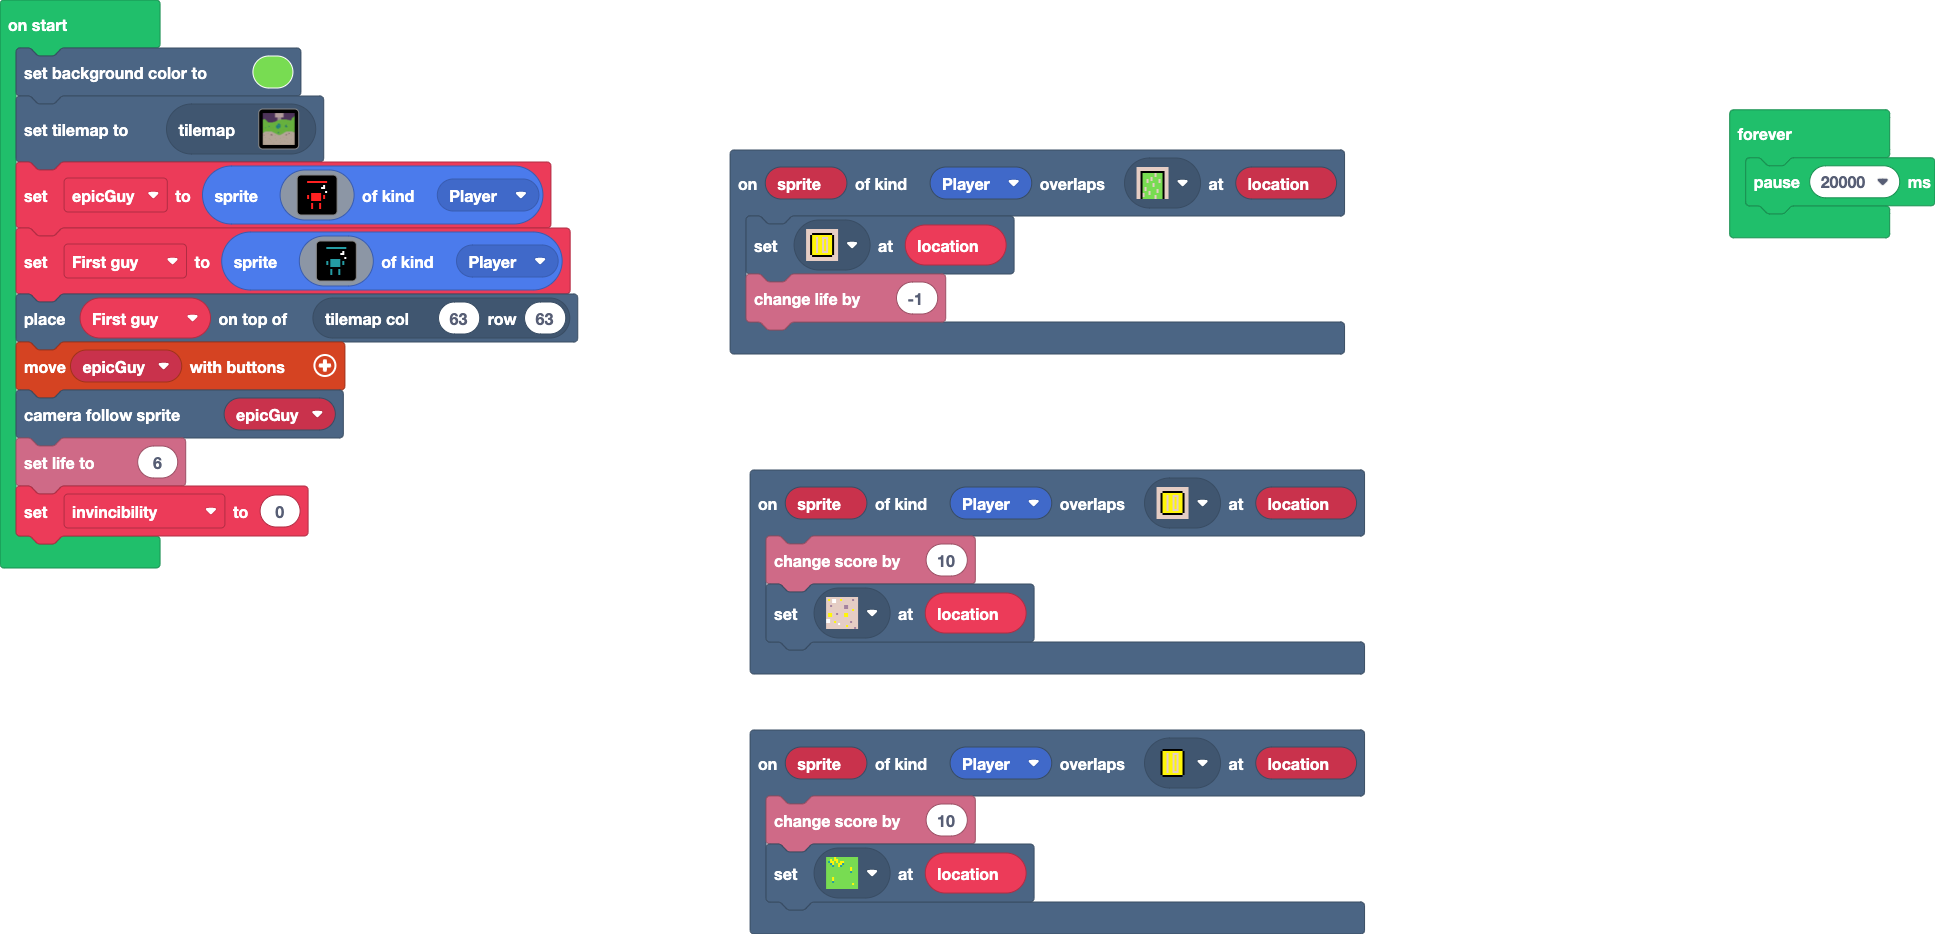
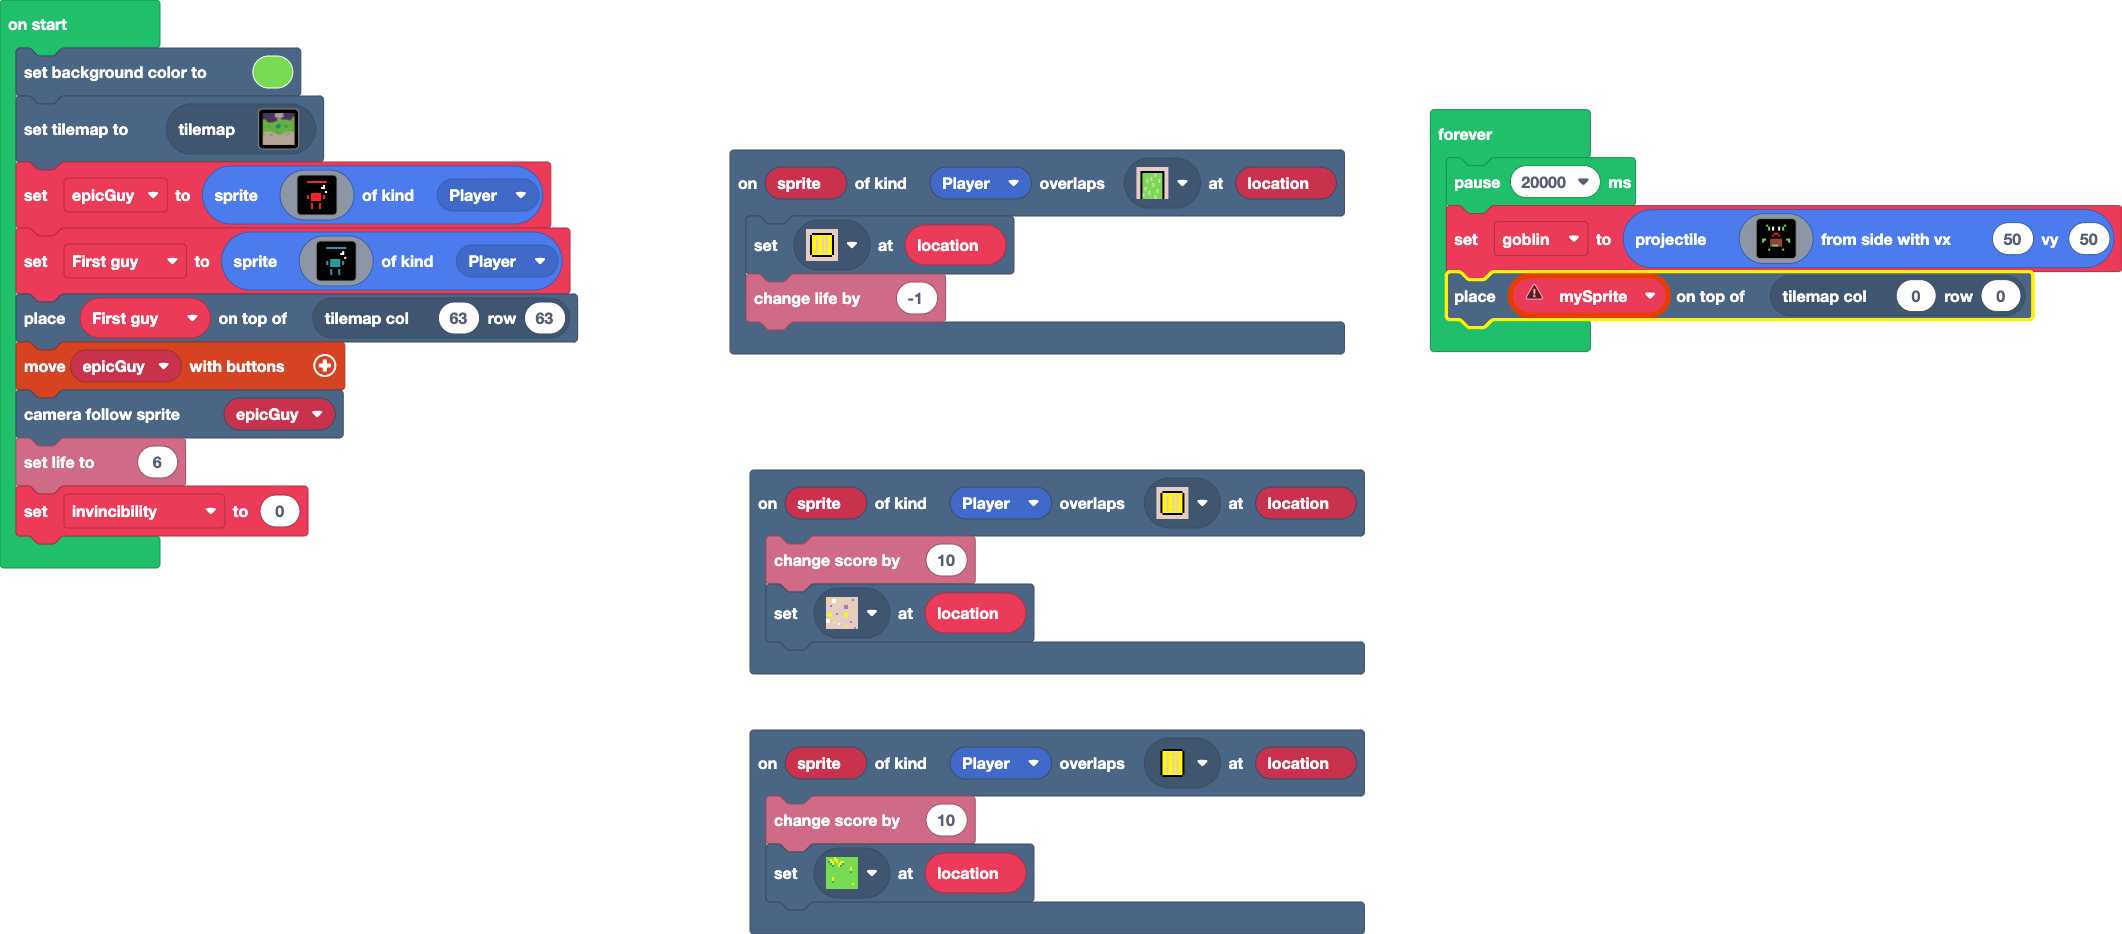
Update main.blocks, main.ts

diff --git a/main.ts b/main.ts
@@ -10,6 +10,7 @@ scene.onOverlapTile(SpriteKind.Player, assets.tile`myTile5`, function (sprite, l
     info.changeScoreBy(10)
     tiles.setTileAt(location, sprites.castle.tileGrass1)
 })
+let goblin: Sprite = null
 scene.setBackgroundColor(7)
 tiles.setCurrentTilemap(tilemap`level1`)
 let epicGuy = sprites.create(img`
@@ -54,5 +55,8 @@ scene.cameraFollowSprite(epicGuy)
 info.setLife(6)
 let invincibility = 0
 forever(function () {
+    let mySprite: Sprite = null
     pause(20000)
+    goblin = sprites.createProjectileFromSide(assets.image`Goblin`, 50, 50)
+    tiles.placeOnTile(mySprite, tiles.getTileLocation(0, 0))
 })
